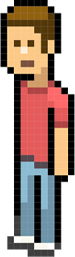
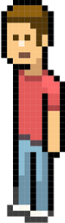
0.7.6
timmy moving like in a game

diff --git a/src/Player.ts b/src/Player.ts
@@ -1,21 +1,22 @@
-import Drawable from "./Drawable.js";
-import CanvasUtil from "./CanvasUtil.js";
-import Computer from "./Computer.js";
+import Drawable from './Drawable.js';
+import CanvasUtil from './CanvasUtil.js';
+import Computer from './Computer.js';
 
 export default class Player extends Drawable {
-
   private speed: number;
 
-  constructor(posX: number, posY: number) {
+  private lookingRight: boolean;
+
+  public constructor(posX: number, posY: number) {
     super();
-    this.image = CanvasUtil.loadNewImage('./assets/playerstanding.png')
+    this.image = CanvasUtil.loadNewImage('./assets/playerstanding.png');
     this.posX = posX;
     this.posY = posY;
     this.speed = 3;
+    this.lookingRight = true;
   }
 
   public update(elapsed: number): void {
-
   }
 
   public collideWithitem(item: Computer): boolean {
@@ -26,52 +27,59 @@ export default class Player extends Drawable {
   }
 
   public setNewPlayerImage(source: string) {
-    this.image = CanvasUtil.loadNewImage(source)
+    this.image = CanvasUtil.loadNewImage(source);
   }
 
   public setSpeed(speed: number) {
     this.speed = speed;
   }
 
-  public playerMoving(direction: number, speed: number) {
-    const imageSources = ['http://127.0.0.1:5500/assets/playerstanding.png', 'http://127.0.0.1:5500/assets/timmywalkingright1.png', 'http://127.0.0.1:5500/assets/timmywalkingright2.png', 'http://127.0.0.1:5500/assets/timmywalkingleft1.png', 'http://127.0.0.1:5500/assets/timmywalkingleft2.png']
-    if (direction === 3) {
-      if (this.image.src === imageSources[2] || this.image.src === imageSources[0] || this.image.src === imageSources[4] || this.image.src === imageSources[3]) {
-        setTimeout(() => {
-          this.image = CanvasUtil.loadNewImage(imageSources[1])
-        }, speed)
+  public move(direction: number, speed: number): void {
+    const imageSources = ['http://127.0.0.1:5500/assets/playerstanding.png', 'http://127.0.0.1:5500/assets/timmywalkingright1.png', 'http://127.0.0.1:5500/assets/timmywalkingright2.png', 'http://127.0.0.1:5500/assets/timmywalkingleft1.png', 'http://127.0.0.1:5500/assets/timmywalkingleft2.png', 'http://127.0.0.1:5500/assets/playerstandingleft.png'];
+    if (direction === 66) {
+      if (this.lookingRight) {
+        this.image.src = imageSources[0];
+      } else {
+        this.image.src = imageSources[5];
       }
-      if (this.image.src === imageSources[1] || this.image.src === imageSources[0] || this.image.src === imageSources[4] || this.image.src === imageSources[3]) {
-        setTimeout(() => {
-          this.image = CanvasUtil.loadNewImage(imageSources[2])
-        }, speed)
+    }
+    if (this.lookingRight && direction !== 66) {
+      if (this.lookingRight) {
+        if (this.image.src === imageSources[2] || this.image.src === imageSources[5] ||  this.image.src === imageSources[0] || this.image.src === imageSources[4] || this.image.src === imageSources[3]) {
+          setTimeout(() => {
+            this.image = CanvasUtil.loadNewImage(imageSources[1]);
+          }, speed);
+        }
+        if (this.image.src === imageSources[1] || this.image.src === imageSources[5] ||  this.image.src === imageSources[0] || this.image.src === imageSources[4] || this.image.src === imageSources[3]) {
+          setTimeout(() => {
+            this.image = CanvasUtil.loadNewImage(imageSources[2]);
+          }, speed);
+        }
       }
+    } if (!(this.lookingRight) && direction !== 66) {
+      if (this.image.src === imageSources[2] || this.image.src === imageSources[5] || this.image.src === imageSources[0] || this.image.src === imageSources[4]) {
+        setTimeout(() => {
+          this.image = CanvasUtil.loadNewImage(imageSources[3]);
+        }, speed);
+      }
+      if (this.image.src === imageSources[1] || this.image.src === imageSources[5] ||  this.image.src === imageSources[0] || this.image.src === imageSources[3]) {
+        setTimeout(() => {
+          this.image = CanvasUtil.loadNewImage(imageSources[4]);
+        }, speed);
+      }
+    }
+    if (direction === 0) {
+      this.posX -= this.speed;
+      this.lookingRight = false;
     }
     if (direction === 1) {
-      if (this.image.src === imageSources[2] || this.image.src === imageSources[0] || this.image.src === imageSources[4]) {
-        setTimeout(() => {
-          this.image = CanvasUtil.loadNewImage(imageSources[3])
-        }, speed)
-      }
-      if (this.image.src === imageSources[1] || this.image.src === imageSources[0]|| this.image.src === imageSources[3]) {
-        setTimeout(() => {
-          this.image = CanvasUtil.loadNewImage(imageSources[4])
-        }, speed)
-      }
-    }
-  }
-
-  public move(direction: number): void {
-    if (direction == 0) {
-      this.posX -= this.speed;
-    }
-    if (direction == 1) {
       this.posY -= this.speed;
     }
-    if (direction == 2) {
+    if (direction === 2) {
       this.posX += this.speed;
+      this.lookingRight = true;
     }
-    if (direction == 3) {
+    if (direction === 3) {
       this.posY += this.speed;
     }
   }

diff --git a/src/Bedroom.ts b/src/Bedroom.ts
@@ -49,6 +49,8 @@ export default class Bedroom extends Scene {
 
   private bossFightScene: boolean;
 
+  private buttonsPressed: number;
+
   public constructor(maxX: number, maxY: number, level: number) {
     super(maxX, maxY);
     this.image = CanvasUtil.loadNewImage('./assets/timmyroom3.png');
@@ -72,7 +74,7 @@ export default class Bedroom extends Scene {
     this.webpageScene = false;
     this.image1 = CanvasUtil.loadNewImage('./placeholders/bubble.png');
     this.playerHead = CanvasUtil.loadNewImage('./placeholders/timmyHead.png');
-    this.trojanHead = CanvasUtil.loadNewImage('./placeholders/trojanHead.png');
+    this.trojanHead = CanvasUtil.loadNewImage('./assets/trojanicon.png');
     if (!this.level1) {
       this.timeToText = 1000;
     } else {
@@ -83,31 +85,38 @@ export default class Bedroom extends Scene {
     this.cheatLoadingScreen = false;
     this.nextText = 0;
     this.text = new Text();
+    this.buttonsPressed = 0;
   }
 
   public processInput(keyListener: KeyListener): void {
     if (keyListener.keyPressed(KeyListener.KEY_S)) this.starting = true;
     if (!this.level1 && this.nextText > 4) {
+      this.buttonsPressed = 0;
       if (this.player.getPosX() > this.dimensionsX + 5) {
         if (keyListener.isKeyDown(KeyListener.KEY_LEFT) || keyListener.isKeyDown('KeyA')) {
-          this.player.move(0);
-          this.player.playerMoving(1, 150)
+          this.player.move(0, 150);
+          this.buttonsPressed += 1;
         }
       }
 
       if (this.player.getPosY() > this.dimensionsY + 5) {
-        if (keyListener.isKeyDown(KeyListener.KEY_UP) || keyListener.isKeyDown('KeyW')) this.player.move(1);
+        if (keyListener.isKeyDown(KeyListener.KEY_UP) || keyListener.isKeyDown('KeyW')) {
+          this.player.move(1, 150);
+          this.buttonsPressed += 1;
+        }
       }
 
       if (this.player.getPosX() < this.dimensionsX + this.backgroundWidth - 115) {
         if (keyListener.isKeyDown(KeyListener.KEY_RIGHT) || keyListener.isKeyDown('KeyD')) {
-          this.player.move(2);
-          this.player.playerMoving(3, 150)
+          this.player.move(2, 150);
+          this.buttonsPressed += 1;
+        }
       }
-    }
-
       if (this.player.getPosY() < this.dimensionsY + this.backgroundHeight - 140) {
-        if (keyListener.isKeyDown(KeyListener.KEY_DOWN) || keyListener.isKeyDown('KeyS')) this.player.move(3);
+        if (keyListener.isKeyDown(KeyListener.KEY_DOWN) || keyListener.isKeyDown('KeyS')) {
+          this.buttonsPressed += 1;
+          this.player.move(3, 150);
+        }
       }
 
       if (keyListener.isKeyDown(KeyListener.KEY_SPACE)
@@ -128,6 +137,10 @@ export default class Bedroom extends Scene {
   }
 
   public update(elapsed: number): Scene {
+    if (this.buttonsPressed === 0) {
+      this.player.move(66, 150);
+    }
+    this.player.update(elapsed);
     //cheat code to whackamole
     if (this.bossFightScene === true) {
       return new BossFight(window.innerWidth, window.innerHeight, 0)
@@ -165,7 +178,7 @@ export default class Bedroom extends Scene {
     this.player.render(canvas);
     if (this.level1) this.antagonist.render(canvas);
     if (this.nextText > 4) {
-      CanvasUtil.drawImage(canvas, this.popUp, this.dimensionsX + 1170, this.dimensionsY + 22);
+      CanvasUtil.drawImage(canvas, this.popUp, this.dimensionsX + 1170, this.dimensionsY + 27);
     }
     if (this.player.collideWithitem(this.computer) && !this.level1) {
       this.text.computerPrompt(canvas, this.popUp);

diff --git a/src/BossScene.ts/BossFight.ts b/src/BossScene.ts/BossFight.ts
@@ -31,26 +31,25 @@ export default class BossFight extends Scene {
   public processInput(keyListener: KeyListener): void {
     if (this.player.getPosX() > this.dimensionsX + 5) {
       if (keyListener.isKeyDown(KeyListener.KEY_LEFT) || keyListener.isKeyDown('KeyA')) {
-        this.player.move(0);
-        this.player.playerMoving(1, 50)
+        this.player.move(0, 50);
       }
     }
 
     if (this.player.getPosY() > this.dimensionsY + 5) {
-      if (keyListener.isKeyDown(KeyListener.KEY_UP) || keyListener.isKeyDown('KeyW')) this.player.move(1);
+      if (keyListener.isKeyDown(KeyListener.KEY_UP) || keyListener.isKeyDown('KeyW')) this.player.move(1, 50);
     }
 
     if (this.player.getPosX() < this.dimensionsX + this.backgroundWidth - 115) {
       if (keyListener.isKeyDown(KeyListener.KEY_RIGHT) || keyListener.isKeyDown('KeyD')) {
-        this.player.move(2);
-        this.player.playerMoving(3, 50)
+        this.player.move(2, 50);
       }
     }
 
     if (this.player.getPosY() < this.dimensionsY + this.backgroundHeight - 140) {
-      if (keyListener.isKeyDown(KeyListener.KEY_DOWN) || keyListener.isKeyDown('KeyS')) this.player.move(3);
+      if (keyListener.isKeyDown(KeyListener.KEY_DOWN) || keyListener.isKeyDown('KeyS')) this.player.move(3, 50);
     }
   }
+
   public update(elapsed: number): Scene {
     if (this.abilityShoot === false) {
       setTimeout(() => {

diff --git a/src/ArrowThrower/ArrowThrower.ts b/src/ArrowThrower/ArrowThrower.ts
@@ -58,7 +58,7 @@ export default class ArrowThrower extends Scene {
     this.score = 0;
     this.changingTime = 1500;
     this.playerHead = CanvasUtil.loadNewImage('./placeholders/timmyHead.png');
-    this.trojanHead = CanvasUtil.loadNewImage('./placeholders/trojanHead.png');
+    this.trojanHead = CanvasUtil.loadNewImage('./assets/trojanicon.png');
     this.bubble = CanvasUtil.loadNewImage('./placeholders/bubble.png');
     this.nextText = 0;
 

diff --git a/src/Computer.ts b/src/Computer.ts
@@ -5,7 +5,7 @@ export default class Computer extends Drawable {
   public constructor() {
     super();
     this.posX = this.dimensionsX + 1050;
-    this.posY = this.dimensionsY + 122;
+    this.posY = this.dimensionsY + 172;
     this.image = CanvasUtil.loadNewImage('./assets/pc.png');
   }
 }

diff --git a/src/Bed.ts b/src/Bed.ts
@@ -5,7 +5,7 @@ export default class Bed extends Drawable {
   public constructor() {
     super();
     this.posX = this.dimensionsX + 31;
-    this.posY = this.dimensionsY + 160;
+    this.posY = this.dimensionsY + 210;
     this.image = CanvasUtil.loadNewImage('./assets/bed.png');
   }
 }
